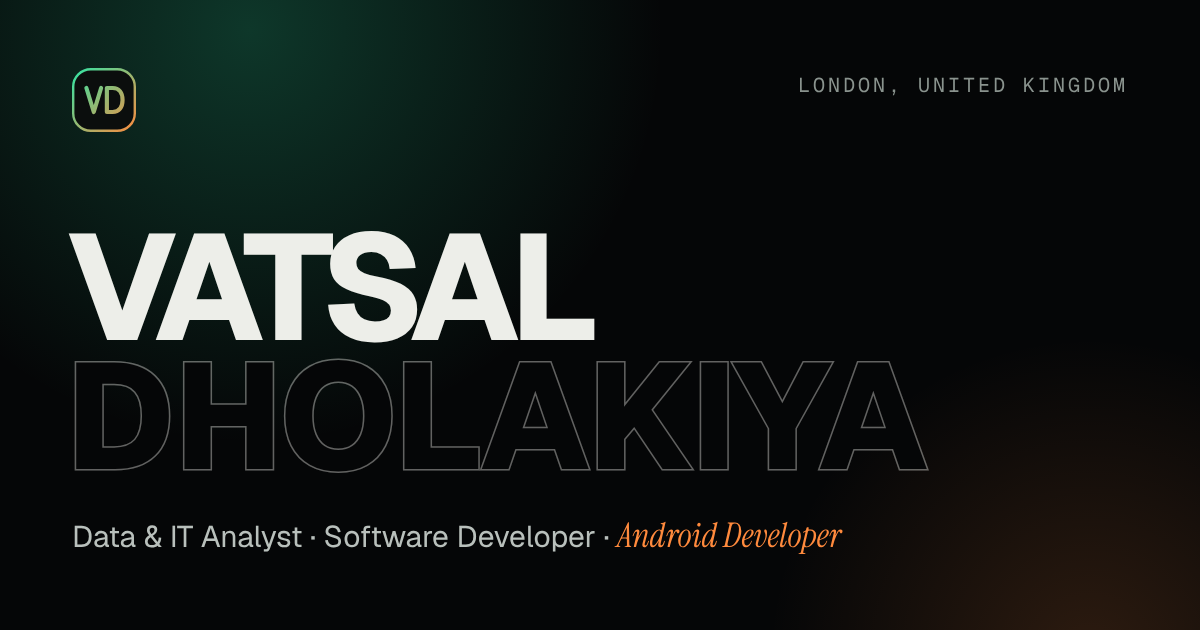
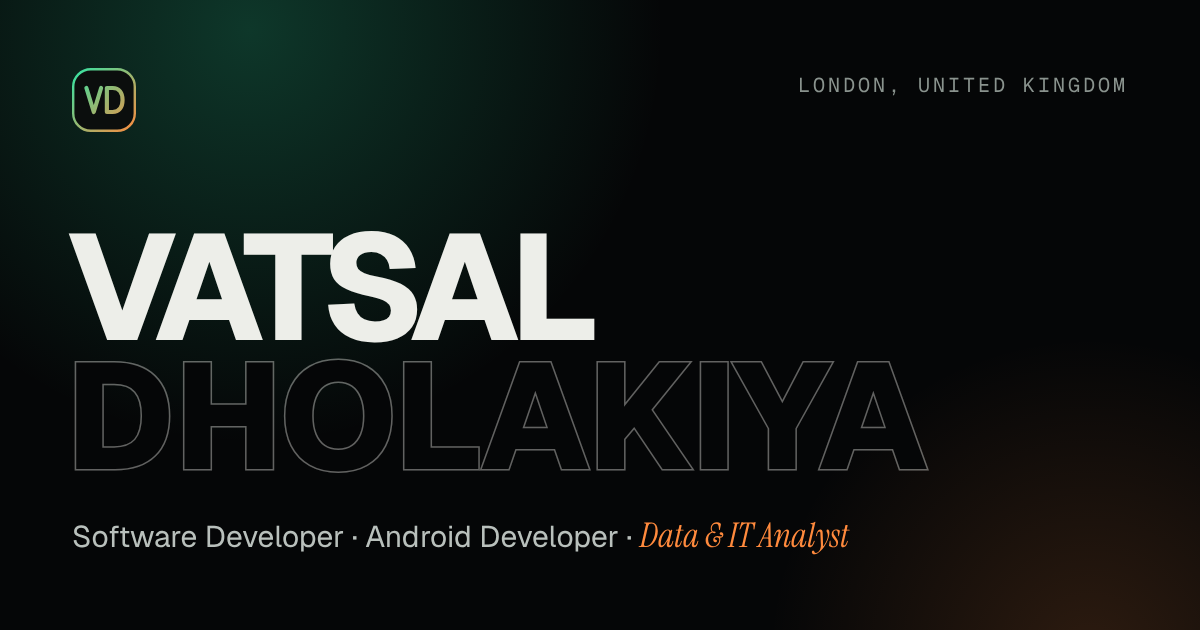
Put Software Developer and Android Developer first in titles; remove placeholder data from animations and unused mock illustrations
Claude-Session: https://claude.ai/code/session_01LKi39pbMocCTRNa2FPTGCk

Changed region(s): [[0.0617, 0.8143, 0.7092, 0.8746]]

diff --git a/src/data/content.ts b/src/data/content.ts
@@ -112,11 +112,11 @@ export const site = {
   /** FILL IN: your live domain without a trailing slash, e.g. 'https://vatsaldholakiya.com'.
    *  Used for the canonical URL, social previews and sitemap.xml. Leave '' until you have one. */
   url: 'https://www.vatsaldholakiya.com',
-  title: 'Vatsal Dholakiya — Data & IT Analyst | Software Developer | Android Developer',
+  title: 'Vatsal Dholakiya — Software Developer | Android Developer | Data & IT Analyst',
   description:
-    'Vatsal Dholakiya is a London-based Data & IT Analyst, Software Developer and Android Developer working with Python, SQL, Java and machine learning, with an MSc in Cloud Computing (Distinction).',
+    'Vatsal Dholakiya is a London-based Software Developer, Android Developer and Data & IT Analyst working with Python, SQL, Java and machine learning, with an MSc in Cloud Computing (Distinction).',
   ogImage: '/og-image.png',
-  ogImageAlt: 'Vatsal Dholakiya, Data & IT Analyst, Software Developer and Android Developer',
+  ogImageAlt: 'Vatsal Dholakiya, Software Developer, Android Developer and Data & IT Analyst',
   locale: 'en_GB',
 }
 
@@ -126,8 +126,8 @@ export const person = {
   firstName: 'Vatsal',
   lastName: 'Dholakiya',
   initials: 'VD',
-  jobTitle: 'Data & IT Analyst, Software Developer and Android Developer',
-  roleLine: 'Data & IT Analyst · Software Developer · Android Developer',
+  jobTitle: 'Software Developer, Android Developer and Data & IT Analyst',
+  roleLine: 'Software Developer · Android Developer · Data & IT Analyst',
   location: 'London, United Kingdom',
   timeZone: 'Europe/London',
   links: {
@@ -190,7 +190,7 @@ export const films: Record<'orbit' | 'developer' | 'nextChapter', Film> = {
 /* ------------------------------------------------------------------ Hero */
 
 export const hero = {
-  kicker: 'Data & IT Analyst · Software Developer · Android Developer',
+  kicker: 'Software Developer · Android Developer · Data & IT Analyst',
   line: "I analyse data, build software and keep live systems healthy — and I'm learning AI to build what comes next.",
   primaryCta: 'See my work',
   availability: 'Open to opportunities',
@@ -214,8 +214,8 @@ export const build = {
     stat: { value: '500+', label: 'Messages a day' },
     skills: ['Java', 'Android', 'SQL', 'Git'],
     chat: { title: 'AI · Learning', question: 'What should I learn next?', answer: 'Generative AI, step by step.' },
-    appTitle: 'Orders',
-    secondApp: 'Customers',
+    appTitle: 'PostFactory',
+    secondApp: 'WhatsApp Tool',
   },
 }
 
@@ -228,8 +228,6 @@ export const stats = {
     { value: 500, suffix: '+', label: 'WhatsApp messages a day handled by my automation tool' },
     { value: 5, label: 'Professional certifications' },
     { value: 563, label: 'Stack Overflow reputation', live: 'stackoverflow-reputation' },
-    /** FILL IN: number of Android apps you shipped to Google Play — hidden while value is undefined */
-    { label: 'Android apps on Google Play' },
   ] as Stat[],
 }
 
@@ -516,7 +514,7 @@ export const process = {
     editor: 'MainActivity.java',
     studio: 'Android Studio',
     terminal: 'Terminal',
-    api: 'GET /api/orders',
+    api: 'REST API · JSON',
     ai: ['Learning: neural networks', 'Learning: loss curve'],
   },
 }
@@ -534,9 +532,9 @@ export interface CaseStudy {
   impact: { value: string; label: string }[]
   result: string
   tags: string[]
-  /** Which interface the animated illustration shows */
+  /** Screenshot layout: phone screens or desktop windows */
   visual: 'phone' | 'desktop'
-  /** Real screenshots (public/projects/...). When present they replace the drawn illustration. First one leads. */
+  /** Real screenshots (public/projects/...). First one leads. */
   images?: { src: string; alt: string; width: number; height: number }[]
 }
 
@@ -663,16 +661,6 @@ export const projects = {
       live: '',
     },
   ] as Project[],
-  /** Labels shown inside the animated app illustrations */
-  phoneApp: { title: 'PostFactory', templates: ['Corporate', 'Tech', 'Creative', 'Personal'], button: 'Export PDF' },
-  desktopApp: {
-    title: 'WhatsApp Automation',
-    toolbar: ['Import', 'Groups', 'Filter', 'Reports'],
-    recipients: ['Priya Shah', 'Amit Patel', 'Neha Joshi', 'Ravi Mehta', 'Sneha Desai'],
-    message: 'Hello {name}, our anniversary offer is live: 15% off all gold jewellery this week.',
-    send: 'Send',
-    log: 'Sending log',
-  },
 }
 
 /* ---------------------------------------------------------------- GitHub */
@@ -775,7 +763,7 @@ export const contact = {
   label: 'Contact',
   heading: "Let's build what's next.",
   accentWord: 'next.',
-  line: 'Open to data analyst, IT analyst, software developer and Android developer roles. Based in London, open to relocate anywhere.',
+  line: 'Open to software developer, Android developer, data analyst and IT analyst roles. Based in London, open to relocate anywhere.',
   copy: 'Copy',
   copied: 'Copied!',
   copyAria: 'Copy email address',
@@ -801,7 +789,7 @@ export const terminal = {
   welcome: 'Type help to see commands. Esc closes.',
   commands: {
     help: 'Commands: whoami, skills, learning, contact, clear',
-    whoami: 'Vatsal Dholakiya — Data & IT Analyst, Software Developer and Android Developer, London.',
+    whoami: 'Vatsal Dholakiya — Software Developer, Android Developer and Data & IT Analyst, London.',
     skills: 'Java · Python · SQL · Android SDK · REST APIs · Selenium · Git · Docker',
     learning: 'Learning now: Generative AI and Ethics of AI — hands-on, one project at a time.',
     contact: 'vatsal.dholakiya2000@gmail.com',

diff --git a/src/components/sections/Process.tsx b/src/components/sections/Process.tsx
@@ -60,7 +60,7 @@ function Scene() {
           <div className="space-y-1 p-3 font-mono text-[0.58rem] text-mist md:text-[0.7rem]">
             <p>$ ./gradlew assembleRelease</p>
             <p className="text-ash">&gt; Task :app:compileReleaseJava</p>
-            <p className="text-emerald">BUILD SUCCESSFUL in 14s</p>
+            <p className="text-emerald">BUILD SUCCESSFUL</p>
           </div>
         </div>
 
@@ -69,9 +69,9 @@ function Scene() {
           <Bar title={p.api} />
           <div className="space-y-1 p-3 font-mono text-[0.68rem] text-mist">
             <p>
-              <span className="text-emerald">200</span> OK · 84 ms
+              <span className="text-emerald">200</span> OK
             </p>
-            <p className="text-ash">{'{ "orders": [ … ] }'}</p>
+            <p className="text-ash">{'{ "data": [ … ] }'}</p>
           </div>
         </div>
 

diff --git a/src/components/sections/Projects.tsx b/src/components/sections/Projects.tsx
@@ -7,7 +7,6 @@ import { GitHubIcon } from '../ui/BrandIcons'
 import { Reveal, RevealItem, Stagger } from '../ui/Reveal'
 import { SectionHead } from '../ui/SectionHead'
 import { TiltCard } from '../ui/TiltCard'
-import { DesktopMock, PhoneMock } from './ProjectMocks'
 import { DesktopShots, PhoneShots } from './ProjectShowcase'
 
 function CaseStudyBlock({ study, index }: { study: CaseStudy; index: number }) {
@@ -38,11 +37,7 @@ function CaseStudyBlock({ study, index }: { study: CaseStudy; index: number }) {
             ) : (
               <DesktopShots images={study.images} title={study.title} />
             )
-          ) : study.visual === 'phone' ? (
-            <PhoneMock />
-          ) : (
-            <DesktopMock />
-          )}
+          ) : null}
         </Reveal>
       </div>
 

diff --git a/tests/site.spec.ts b/tests/site.spec.ts
@@ -217,7 +217,7 @@ test.describe('Projects and data', () => {
     await expect(page.locator('#terminal-input')).toBeFocused()
     await page.keyboard.type('whoami')
     await page.keyboard.press('Enter')
-    await expect(terminal).toContainText('Data & IT Analyst')
+    await expect(terminal).toContainText('Software Developer, Android Developer and Data & IT Analyst')
     await page.keyboard.type('nope')
     await page.keyboard.press('Enter')
     await expect(terminal).toContainText('Command not found')

diff --git a/README.md b/README.md
@@ -98,7 +98,7 @@ src/
   components/              Navbar, Hero, Contact, Footer, GitHubRepos, StackOverflowCard, CertificateModal, Toast, NotFound, Icon
     hero/                  FinalHero
     sections/              BuildSequence, StatsStrip, About, Skills, Story, Certificates, Process,
-                           Projects (+ ProjectMocks), NextChapter
+                           Projects (+ ProjectShowcase), NextChapter
     film/                  FilmSection (pinned shot), FilmVideo (looping or scroll-scrubbed video)
     extras/                Cursor, Grain, Terminal
     ui/                    SectionHead, SkillChips, TiltCard, Magnetic, Modal, Tooltip, Reveal, Counter, Monogram, BrandIcons
